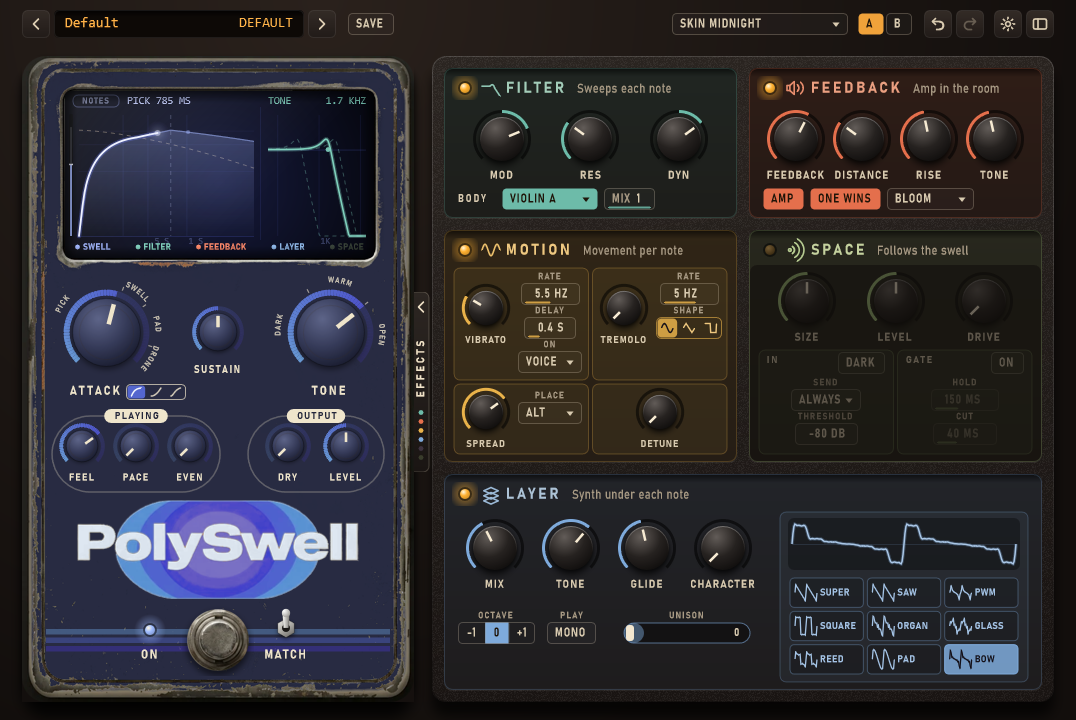
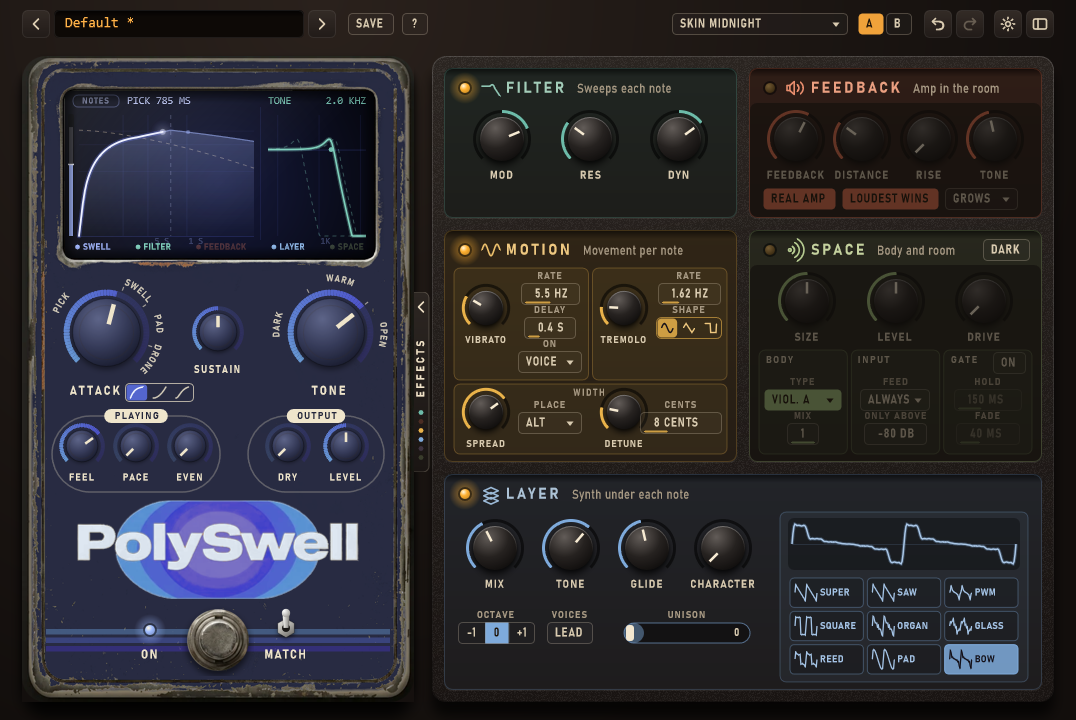
2.2.0: the owner's presets as stock presets; SPACE names; LED glow; RES picture; delete presets; unsaved-changes warning; prev/next through user presets; type values, Shift fine, module reset, A/B copy

diff --git a/Source/PluginEditor.cpp b/Source/PluginEditor.cpp
@@ -447,10 +447,13 @@ struct Knob : juce::Slider
         getProperties().set ("kind", kind);
         getProperties().set ("ac", (juce::int64) ac.getARGB());
         getProperties().set ("label", shownName);
-        setTooltip (String (tipFor (paramId)) + (kind < 3 ? "  Double-click: reset. Right-click: MIDI learn." : ""));
+        setTooltip (String (tipFor (paramId)) + (kind < 3 ? "  Double-click: reset. Shift-drag: fine. Alt-click: type a value. Right-click: MIDI learn."
+                                                          : "  Shift-drag: fine. Alt-click: type a value."));
         att = std::make_unique<juce::AudioProcessorValueTreeState::SliderAttachment> (p.apvts, paramId, *this);
         if (auto* prm = p.apvts.getParameter (paramId)) setDoubleClickReturnValue (true, prm->convertFrom0to1 (prm->getDefaultValue()));
         const String unit = p.apvts.getParameter (paramId)->getLabel();
+        unitLabel = unit;
+        baseSensitivity = kind == 3 ? 160 : 220;
         textFromValueFunction = [base = textFromValueFunction, unit] (double v) { return tidyValue (base ? base (v) : String (v), unit); };
         onValueChange = [this] { if (isMouseOverOrDragging()) show(); repaint(); };
         onDragStart = [this] { show(); host.focus (id, true); };
@@ -459,7 +462,35 @@ struct Knob : juce::Slider
     void mouseEnter (const juce::MouseEvent& e) override { juce::Slider::mouseEnter (e); show(); host.focus (id, true); repaint(); }
     void mouseExit (const juce::MouseEvent& e) override { juce::Slider::mouseExit (e); if (! e.mods.isAnyMouseButtonDown()) host.focus (id, false); repaint(); }
     void show() { host.readout (name, getTextFromValue (getValue())); }
-    void mouseDown (const juce::MouseEvent& e) override { if (e.mods.isPopupMenu()) { host.midiMenu (id, *this); return; } juce::Slider::mouseDown (e); }
+    void mouseDown (const juce::MouseEvent& e) override
+    {
+        if (e.mods.isPopupMenu()) { host.midiMenu (id, *this); return; }
+        if (e.mods.isAltDown()) { typeValue(); return; }                       // Alt-click: type an exact value
+        setMouseDragSensitivity (e.mods.isShiftDown() ? baseSensitivity * 6 : baseSensitivity);   // Shift: fine steps
+        juce::Slider::mouseDown (e);
+    }
+    void typeValue()
+    {
+        auto* w = new juce::AlertWindow ("Type a value", name, juce::MessageBoxIconType::NoIcon, this);
+        w->addTextEditor ("v", getTextFromValue (getValue()));
+        w->addButton ("OK", 1, juce::KeyPress (juce::KeyPress::returnKey));
+        w->addButton ("Cancel", 0, juce::KeyPress (juce::KeyPress::escapeKey));
+        juce::Component::SafePointer<Knob> self (this);
+        w->enterModalState (true, juce::ModalCallbackFunction::create ([self, w] (int r)
+        {
+            if (r == 1 && self != nullptr)
+                self->setValue (juce::jlimit (self->getMinimum(), self->getMaximum(), self->parseTyped (w->getTextEditorContents ("v"))), juce::sendNotificationSync);
+        }), true);
+    }
+    double parseTyped (String t) const   // "750", "2.5 s" (ATTACK in ms), "1.2k" (Hz), "-6"
+    {
+        t = t.trim().toLowerCase();
+        double v = t.getDoubleValue();
+        const String rest = t.trimCharactersAtStart ("0123456789.-+ ").trim();
+        if (unitLabel == "ms" && rest.startsWith ("s")) v *= 1000.0;
+        if (unitLabel == "Hz" && rest.startsWith ("k")) v *= 1000.0;
+        return v;
+    }
     void mouseDrag (const juce::MouseEvent& e) override { if (! e.mods.isPopupMenu()) juce::Slider::mouseDrag (e); }
     void mouseUp (const juce::MouseEvent& e) override { if (! e.mods.isPopupMenu()) juce::Slider::mouseUp (e); }
     bool hitTest (int x, int y) override   // round knobs: only the knob itself, so neighbours never steal the mouse
@@ -476,7 +507,8 @@ struct Knob : juce::Slider
     }
 
     Host& host;
-    String name, id;
+    String name, id, unitLabel;
+    int baseSensitivity = 220;
     std::unique_ptr<juce::AudioProcessorValueTreeState::SliderAttachment> att;
 };
 
@@ -1249,8 +1281,9 @@ struct SignalWindow : juce::Component, juce::Timer, juce::TooltipClient
             tag (g, m.second, X (m.first) + 3.f, bot - 7.f, cText.withAlpha (0x88 / 255.f));
         }
         const bool fon = P ("filterOn") > 0.5f;
-        const float fc = P ("freq"), q = 0.5f * std::pow (20.f, juce::jlimit (0.f, 1.f, P ("res")));
         const int slope = juce::roundToInt (P ("slope"));
+        // Q as the engine's resToQ: at 18 dB/oct RES 0 = Q 1 (the POG2's curve), up to Q 10 (the old 0.5 x 20^RES drew no peak there)
+        const float q0 = slope == 4 ? 1.f : 0.5f, fc = P ("freq"), q = q0 * std::pow (10.f / q0, juce::jlimit (0.f, 1.f, P ("res")));
         auto response = [&] (float cut)
         {
             juce::Path p;
@@ -2436,10 +2469,18 @@ struct PolySwellEditor::Board : juce::Component, Host, juce::Timer
         skinC->onPress = [this] { skinMenu (skinC); };
         for (int i = 0; i < 2; ++i)
         {
-            auto* c = chip (Chip::custom, "", i == 0 ? "A" : "B", col::amber, "A / B: two versions of the sound to compare. Click the other one to switch.", barOnly);
+            auto* c = chip (Chip::custom, "", i == 0 ? "A" : "B", col::amber, "A / B: two versions of the sound to compare. Click the other one to switch; click the lit one to copy it to the other.", barOnly);
             c->mode = Chip::toggle; c->setSize (26, 22);
             c->litFn = [this, i] { return abSlot == i; };
-            c->onPress = [this, i] { switchAb (i); };
+            c->onPress = [this, i, c]
+            {
+                if (abSlot != i) { switchAb (i); return; }
+                juce::PopupMenu m;
+                m.addItem (1, String ("Copy ") + (i == 0 ? "A to B" : "B to A") + " (replaces " + (i == 0 ? "B" : "A") + ")");
+                m.setLookAndFeel (&look);
+                m.showMenuAsync (juce::PopupMenu::Options().withTargetComponent (c), [this, i] (int r)
+                { if (r == 1) abState[(size_t) (1 - i)] = proc.apvts.copyState(); });
+            };
             abC[i] = c;
         }
     }
@@ -2556,9 +2597,9 @@ struct PolySwellEditor::Board : juce::Component, Host, juce::Timer
         {
             if (i == 4) continue;   // unused slot (was HOLD)
             const auto r = moduleRect (i);
-            Led* l = leds.add (new Led (proc, kMods[i].onId, false, String (kMods[i].title) + ": click to switch this module on or off."));
+            Led* l = leds.add (new Led (proc, kMods[i].onId, false, String (kMods[i].title) + ": click to switch this module on or off. Right-click its title: reset it."));
             l->onUserToggle = [this, id = kMods[i].onId] { wakeModule (id); };
-            l->setBounds (juce::roundToInt (r.getX() + 8), juce::roundToInt (r.getY() + 8), 26, 24);
+            l->setBounds (juce::roundToInt (r.getX() + 3), juce::roundToInt (r.getY() + 2), 36, 36);   // the glow needs ~32 px
             addAndMakeVisible (l); g.add (l);
             label (kMods[i].title, { r.getX() + 62, r.getY() + 10, 120, 20 }, 16.f, kMods[i].ac.interpolatedWith (col::cream, 0.4f), juce::Justification::centredLeft, true, 0.2f);
             const float tw = juce::GlyphArrangement::getStringWidth (uiFont (16.f, true, 0.2f), kMods[i].title);
@@ -2721,11 +2762,44 @@ struct PolySwellEditor::Board : juce::Component, Host, juce::Timer
     // ---------- 1. a control touched in a module that is off switches the module on (it would otherwise do nothing)
     void mouseDown (const juce::MouseEvent& e) override
     {
+        if (e.eventComponent == this && e.mods.isPopupMenu() && panelOpen)   // right-click a module's title: reset it
+        {
+            for (int i = 0; i < 6; ++i)
+                if (i != 4 && moduleRect (i).withHeight (36.f).contains (e.position)) { resetModuleMenu (i); return; }
+            return;
+        }
         if (e.eventComponent == this || e.eventComponent == nullptr || e.mods.isPopupMenu()) return;
         const auto c = e.eventComponent->getBounds().getCentre().toFloat();
         for (int i = 0; i < 6; ++i)
             if (i != 4 && kMods[i].onId != nullptr && moduleRect (i).contains (c) && getParam (kMods[i].onId) < 0.5f)
             { setParam (kMods[i].onId, 1.f); wakeModule (kMods[i].onId); }
+    }
+
+    static std::vector<const char*> moduleParams (int i)
+    {
+        switch (i)
+        {
+            case 0:  return { "mod", "res", "pickFilter", "slope" };
+            case 1:  return { "feedback", "fbDistance", "fbRise", "fbTone", "fbAmp", "fbOneWins", "fbMode", "fbHarmonic" };
+            case 2:  return { "vibDepth", "vibRate", "vibDelay", "vibTarget", "vibHuman", "tremolo", "tremRate", "tremShape",
+                              "spread", "spreadMode", "detuneMix", "detune" };
+            case 3:  return { "voiceMix", "voiceTone", "voiceGlide", "voiceCharacter", "voiceWave", "voiceOct", "voiceMono", "voiceUnison" };
+            default: return { "smearSize", "smearLevel", "smearDrive", "smearSend", "smearThresh", "smearDark", "smearGate", "smearHold",
+                              "smearCut", "bodyIr", "bodyMix", "bowedBody" };
+        }
+    }
+    void resetModuleMenu (int i)
+    {
+        juce::PopupMenu m;
+        m.addItem (1, String ("Reset ") + kMods[i].title + " to its defaults");
+        m.setLookAndFeel (&look);
+        m.showMenuAsync (juce::PopupMenu::Options(), [this, i] (int r)
+        {
+            if (r != 1) return;
+            for (auto* id : moduleParams (i))
+                if (auto* prm = proc.apvts.getParameter (id))
+                { prm->beginChangeGesture(); prm->setValueNotifyingHost (prm->getDefaultValue()); prm->endChangeGesture(); }
+        });
     }
 
     void listenToPanelControls()
@@ -2744,10 +2818,32 @@ struct PolySwellEditor::Board : juce::Component, Host, juce::Timer
     }
 
     // ---- menus
+    // before a preset replaces a sound with changes: ask (Discard / Keep editing)
+    void confirmDiscard (std::function<void()> go)
+    {
+        if (! proc.isModified()) { go(); return; }
+        juce::AlertWindow::showOkCancelBox (juce::MessageBoxIconType::QuestionIcon, "Discard your changes?",
+                                            "\"" + proc.currentPresetName + "\" has changes that are not saved. Click SAVE first to keep them.",
+                                            "Discard", "Keep editing", this,
+                                            juce::ModalCallbackFunction::create ([go] (int r) { if (r == 1) go(); }));
+    }
+
     void stepPreset (int d)
     {
+        confirmDiscard ([this, d] { stepPresetNow (d); });
+    }
+    void stepPresetNow (int d)   // the stock presets, then yours, round and round
+    {
         const int n = proc.getNumPrograms();
-        proc.setCurrentProgram ((proc.getCurrentProgram() + d + n) % n);
+        const auto user = PolySwellProcessor::userPresets();
+        const int total = n + user.size();
+        int cur = proc.getCurrentProgram();
+        if (proc.userPresetLoaded)
+            for (int k = 0; k < user.size(); ++k)
+                if (user[k].getFileNameWithoutExtension() == proc.currentPresetName) { cur = n + k; break; }
+        const int next = (cur + d + total) % total;
+        if (next < n) proc.setCurrentProgram (next);
+        else proc.loadUserPreset (user[next - n]);
     }
 
     void presetMenu()
@@ -2766,12 +2862,26 @@ struct PolySwellEditor::Board : juce::Component, Host, juce::Timer
             m.addItem (1000 + i, user[i].getFileNameWithoutExtension(), true, proc.userPresetLoaded && proc.currentPresetName == user[i].getFileNameWithoutExtension());
         m.addSeparator();
         m.addItem (1, "Save as...");
+        if (! user.isEmpty())
+        {
+            juce::PopupMenu del;
+            for (int i = 0; i < user.size(); ++i) del.addItem (2000 + i, user[i].getFileNameWithoutExtension());
+            m.addSubMenu ("Delete one of yours", del);
+        }
         m.setLookAndFeel (&look);
         m.showMenuAsync (juce::PopupMenu::Options().withTargetComponent (&lcd).withMaximumNumColumns (2), [this, user] (int r)
         {
             if (r == 1) savePreset();
-            else if (r >= 1000) { proc.loadUserPreset (user[r - 1000]); }
-            else if (r >= 100) { proc.setCurrentProgram (r - 100); }
+            else if (r >= 2000)   // delete one of yours: to the Recycle Bin, after a question
+            {
+                const auto f = user[r - 2000];
+                juce::AlertWindow::showOkCancelBox (juce::MessageBoxIconType::WarningIcon, "Delete preset?",
+                                                    "\"" + f.getFileNameWithoutExtension() + "\" goes to the Recycle Bin (you can restore it from there).",
+                                                    "Delete", "Cancel", this,
+                                                    juce::ModalCallbackFunction::create ([f] (int res) { if (res == 1) f.moveToTrash(); }));
+            }
+            else if (r >= 1000) { const auto f = user[r - 1000]; confirmDiscard ([this, f] { proc.loadUserPreset (f); }); }
+            else if (r >= 100) { const int i = r - 100; confirmDiscard ([this, i] { proc.setCurrentProgram (i); }); }
         });
     }
 

diff --git a/Source/PluginProcessor.cpp b/Source/PluginProcessor.cpp
@@ -30,28 +30,32 @@ namespace
                                       { "feedbackOn", 0 }, { "feedback", 0.386f }, { "fbRise", 0.2f },
                                       { "motionOn", 0 }, { "tremolo", 0.177f }, { "tremRate", 1.62f }, { "detuneMix", 0.209f },
                                       { "voiceOn", 0 } } },
-            // the pedal reacting to the playing
-            { "Default dynamic", "Default", { { "attack", 450 }, { "touch", 0.4f }, { "follow", 0.5f }, { "even", 0.3f }, { "sustain", 0.35f },
-                                               { "freq", 5000 }, { "pickFilter", 0.3f },
-                                               { "feedback", 0.2f }, { "fbDistance", 0.3f }, { "fbRise", 1.5f } } },
-            // rolled-off highs, a little dynamic, a saw voice gliding under it, vibrato that sets in late
-            { "Smooth lead", "Lead", { { "attack", 350 }, { "sustain", 0.55f }, { "touch", 0.3f }, { "follow", 0.35f }, { "even", 0.25f },
-                                       { "freq", 2800 }, { "res", 0.1f }, { "pickFilter", 0.2f },
-                                       { "voiceMix", 0.25f }, { "voiceWave", 1 }, { "voiceTone", 2500 }, { "voiceGlide", 0.06f }, { "voiceMono", 1 }, { "voiceCharacter", 0.3f },
-                                       { "vibDepth", 8 }, { "vibRate", 5.2f }, { "vibDelay", 0.4f }, { "vibTarget", 1 }, { "vibHuman", 1 },
-                                       { "smearOn", 1 }, { "smearSize", 0.45f }, { "smearLevel", 0.25f } } },
-            // bowed attack, a violin body, singing vibrato
-            { "Violin", "Lead", { { "attack", 400 }, { "even", 0.5f }, { "sustain", 0.45f }, { "smoothRepick", 1 },
-                                  { "slope", 0 }, { "freq", 6000 }, { "mod", 0.15f }, { "bodyIr", 1 }, { "bodyMix", 0.8f },
-                                  { "smearOn", 1 }, { "smearSize", 0.35f }, { "smearLevel", 0.15f },   // BODY lives in SPACE: a small room
-                                  { "voiceMix", 0.35f }, { "voiceWave", 1 }, { "voiceGlide", 0.05f }, { "voiceMono", 1 },
-                                  { "vibDepth", 14 }, { "vibDelay", 0.35f }, { "vibTarget", 1 }, { "vibHuman", 1 } } },
-            // the VG-8 bowed pad under the guitar, a driven gated reverb, a little chorus-like detune (the mk.gee kind of sound)
-            { "Gated VG", "Lead", { { "vol", -4.5f }, { "attack", 400 }, { "sustain", 0.4f }, { "even", 0.3f }, { "dry", 0.15f }, { "freq", 4000 },
-                                    { "voiceMix", 0.45f }, { "voiceWave", 7 }, { "voiceTone", 4000 }, { "voiceCharacter", 0.5f }, { "voiceUnison", 0.2f },
-                                    { "detuneMix", 0.3f }, { "vibDepth", 5 }, { "vibRate", 4.5f }, { "vibTarget", 2 },
-                                    { "smearOn", 1 }, { "smearSize", 0.55f }, { "smearLevel", 0.5f }, { "smearDrive", 0.5f },
-                                    { "smearGate", 1 }, { "smearHold", 150 }, { "smearCut", 40 } } },
+            // the owner's own (tuned by ear, 2026-11-24)
+            { "Default dynamic", "Default", { { "attack", 1541 }, { "freq", 5000 }, { "sustain", 0.35f }, { "touch", 0.4f }, { "follow", 0.5f },
+                                      { "feedback", 0.2f }, { "fbRise", 0.4f }, { "pickFilter", 0.3f }, { "voiceOn", 0 }, { "even", 0.3f } } },
+            // the owner's own (tuned by ear, 2026-11-24)
+            { "Smooth lead", "Lead", { { "attack", 350 }, { "freq", 2800 }, { "res", 0.1f }, { "sustain", 0.55f }, { "touch", 0.3f },
+                                      { "follow", 0.35f }, { "feedback", 0.132f }, { "fbRise", 0.2f }, { "fbTone", 429 }, { "tremolo", 0.091f },
+                                      { "tremRate", 4.64f }, { "fbMode", 1 }, { "pickFilter", 0.2f }, { "detuneMix", 0.055f }, { "voiceMix", 0.2f },
+                                      { "voiceGlide", 0.06f }, { "voiceMono", 1 }, { "vibHuman", 1 }, { "voiceTone", 1546 },
+                                      { "voiceUnison", 0.266f }, { "even", 0.25f }, { "smearOn", 1 }, { "smearLevel", 0.25f },
+                                      { "smearSize", 0.45f }, { "voiceCharacter", 0.23f }, { "vibDepth", 8 }, { "vibRate", 5.2f },
+                                      { "vibTarget", 1 } } },
+            // the owner's own VIOLIN (2026-11-24): BOWED curve, violin body S2, the voice fully in, a small room
+            { "Violin", "Lead", { { "attack", 450 }, { "freq", 9000 }, { "mod", 0.38f }, { "res", 0.703f }, { "sustain", 0.25f }, { "slope", 0 },
+                                      { "detune", 0 }, { "touch", 0.27f }, { "follow", 0.748f }, { "feedback", 0.368f }, { "fbRise", 0.2f },
+                                      { "spreadMode", 4 }, { "fbMode", 1 }, { "pickFilter", 0.52f }, { "detuneMix", 0.055f }, { "voiceMix", 1 },
+                                      { "voiceGlide", 0.042f }, { "voiceMono", 1 }, { "vibHuman", 1 }, { "voiceTone", 12000 }, { "swellShape", 1 },
+                                      { "smoothRepick", 1 }, { "bodyIr", 7 }, { "smearOn", 1 }, { "smearLevel", 0.281f }, { "smearSize", 0.078f },
+                                      { "vibDepth", 10.8f }, { "vibRate", 4.36f }, { "vibDelay", 0.35f } } },
+            // the owner's own (2026-11-24): the mk.gee kind of sound - a supersaw voice under a BOWED swell, violin body, tremolo
+            { "Mk.gee", "Lead", { { "attack", 546.2f }, { "freq", 1518 }, { "mod", 0.18f }, { "sustain", 0.676f }, { "slope", 1 },
+                                      { "detune", 5.9f }, { "touch", 0.32f }, { "follow", 0.876f }, { "feedback", 0.208f }, { "fbRise", 0.25f },
+                                      { "tremolo", 0.228f }, { "tremRate", 9.36f }, { "spread", 0.352f }, { "spreadMode", 4 }, { "pickFilter", 1 },
+                                      { "detuneMix", 0.055f }, { "voiceMix", 0.412f }, { "voiceWave", 0 }, { "voiceGlide", 0.042f },
+                                      { "voiceMono", 1 }, { "vibHuman", 1 }, { "voiceTone", 1403 }, { "voiceUnison", 0.108f }, { "swellShape", 1 },
+                                      { "smoothRepick", 1 }, { "bodyIr", 7 }, { "smearOn", 1 }, { "smearLevel", 0.281f }, { "smearSize", 0.078f },
+                                      { "vibDepth", 6.4f }, { "vibRate", 3 }, { "vibTarget", 1 } } },
             // slow, wide, a pad voice under it, the reverb blooming with the swell
             { "Ambient pad", "Pad", { { "vol", 4.5f }, { "attack", 2500 }, { "sustain", 0.8f }, { "even", 0.4f }, { "freq", 2200 }, { "mod", 0.25f },
                                       { "voiceMix", 0.4f }, { "voiceWave", 7 }, { "voiceTone", 3000 }, { "voiceUnison", 0.4f }, { "voiceCharacter", 0.3f },
@@ -308,20 +312,20 @@ juce::AudioProcessorValueTreeState::ParameterLayout PolySwellProcessor::createLa
     l.add (std::make_unique<APF> (PID { "driveTone", 1 }, "Drive Tone", juce::NormalisableRange<float> (0.f, 1.f, 0.01f), 0.5f));
     l.add (std::make_unique<APF> (PID { "driveWow", 1 }, "Drive Wow", juce::NormalisableRange<float> (0.f, 1.f, 0.01f), 0.2f));
     // SMEAR: gated reverb + drive (after the Rainger FX Reverb-X)
-    l.add (std::make_unique<juce::AudioParameterBool> (PID { "smearOn", 1 }, "Smear On", false));
-    l.add (std::make_unique<APF> (PID { "smearLevel", 1 }, "Smear Level", juce::NormalisableRange<float> (0.f, 1.f, 0.001f), 0.5f));
-    l.add (std::make_unique<APF> (PID { "smearSize", 1 }, "Smear Size", juce::NormalisableRange<float> (0.f, 1.f, 0.001f), 0.5f));
-    l.add (std::make_unique<APF> (PID { "smearDrive", 1 }, "Smear Drive", juce::NormalisableRange<float> (0.f, 1.f, 0.001f), 0.f));
-    l.add (std::make_unique<juce::AudioParameterBool> (PID { "smearGate", 1 }, "Smear Gate", false));
-    l.add (std::make_unique<juce::AudioParameterBool> (PID { "smearDark", 1 }, "Smear Dark", false));
-    l.add (std::make_unique<APF> (PID { "smearHold", 1 }, "Smear Gate Hold",
+    l.add (std::make_unique<juce::AudioParameterBool> (PID { "smearOn", 1 }, "Space On", false));
+    l.add (std::make_unique<APF> (PID { "smearLevel", 1 }, "Space Level", juce::NormalisableRange<float> (0.f, 1.f, 0.001f), 0.5f));
+    l.add (std::make_unique<APF> (PID { "smearSize", 1 }, "Space Size", juce::NormalisableRange<float> (0.f, 1.f, 0.001f), 0.5f));
+    l.add (std::make_unique<APF> (PID { "smearDrive", 1 }, "Space Drive", juce::NormalisableRange<float> (0.f, 1.f, 0.001f), 0.f));
+    l.add (std::make_unique<juce::AudioParameterBool> (PID { "smearGate", 1 }, "Space Gate", false));
+    l.add (std::make_unique<juce::AudioParameterBool> (PID { "smearDark", 1 }, "Space Dark", false));
+    l.add (std::make_unique<APF> (PID { "smearHold", 1 }, "Space Gate Hold",
            juce::NormalisableRange<float> (0.f, 1000.f, 1.f, 0.5f), 150.f, juce::AudioParameterFloatAttributes().withLabel ("ms")));
-    l.add (std::make_unique<APF> (PID { "smearCut", 1 }, "Smear Gate Cut",
+    l.add (std::make_unique<APF> (PID { "smearCut", 1 }, "Space Gate Cut",
            juce::NormalisableRange<float> (2.f, 500.f, 1.f, 0.4f), 40.f, juce::AudioParameterFloatAttributes().withLabel ("ms")));
-    l.add (std::make_unique<juce::AudioParameterChoice> (PID { "smearSend", 1 }, "Smear Send",
+    l.add (std::make_unique<juce::AudioParameterChoice> (PID { "smearSend", 1 }, "Space Send",
            juce::StringArray { "Always", "Follows swell", "Pedal" }, 0));
-    l.add (std::make_unique<APF> (PID { "smearPress", 1 }, "Smear Press", juce::NormalisableRange<float> (0.f, 1.f, 0.001f), 1.f));
-    l.add (std::make_unique<APF> (PID { "smearThresh", 1 }, "Smear Thresh",
+    l.add (std::make_unique<APF> (PID { "smearPress", 1 }, "Space Press", juce::NormalisableRange<float> (0.f, 1.f, 0.001f), 1.f));
+    l.add (std::make_unique<APF> (PID { "smearThresh", 1 }, "Space Thresh",
            juce::NormalisableRange<float> (-80.f, 0.f, 0.1f), -80.f, juce::AudioParameterFloatAttributes().withLabel ("dB")));
     l.add (std::make_unique<APF> (PID { "voiceString", 1 }, "Voice String", juce::NormalisableRange<float> (0.f, 1.f, 0.01f), 0.f));
     l.add (std::make_unique<APF> (PID { "voiceCharacter", 1 }, "Voice Character", juce::NormalisableRange<float> (0.f, 1.f, 0.01f), 0.f));
@@ -937,10 +941,10 @@ void PolySwellProcessor::setParam (const char* id, float v)
     }
 }
 
-void PolySwellProcessor::setCurrentProgram (int i)
+// the clean base every stock preset starts from: every parameter at its default (bypass, limiter and low latency belong to
+// the setup and stay), then defaultSetup(). `ui_snapshot --params (base)` prints it, to turn a saved preset into a stock one.
+void PolySwellProcessor::applyBase()
 {
-    i = juce::jlimit (0, getNumPrograms() - 1, i);
-    // Default: every parameter at its default (bypass, limiter and low latency belong to the setup and stay)
     for (auto* prm : getParameters())
         if (auto* rp = dynamic_cast<juce::RangedAudioParameter*> (prm))
         {
@@ -950,6 +954,12 @@ void PolySwellProcessor::setCurrentProgram (int i)
         }
     gen2Defaults();
     for (auto& kv : defaultSetup()) setParam (kv.first, kv.second);
+}
+
+void PolySwellProcessor::setCurrentProgram (int i)
+{
+    i = juce::jlimit (0, getNumPrograms() - 1, i);
+    applyBase();
     const auto& np = newPresets()[(size_t) i];
     for (auto& kv : np.set) setParam (kv.first, kv.second);
     currentProgram = i;

diff --git a/tools/ui_snapshot.cpp b/tools/ui_snapshot.cpp
@@ -258,7 +258,8 @@ int main (int argc, char** argv)
     if (argc > 2 && juce::String (argv[1]) == "--params")   // every parameter of a factory preset: id=value (to diff user presets)
     {
         auto pp = std::make_unique<PolySwellProcessor>();
-        for (int i = 0; i < pp->getNumPrograms(); ++i) if (pp->getProgramName (i) == juce::String (argv[2])) pp->setCurrentProgram (i);
+        if (juce::String (argv[2]) == "(base)") pp->applyBase();
+        else for (int i = 0; i < pp->getNumPrograms(); ++i) if (pp->getProgramName (i) == juce::String (argv[2])) pp->setCurrentProgram (i);
         for (auto* prm : pp->getParameters())
             if (auto* r = dynamic_cast<juce::RangedAudioParameter*> (prm))
                 std::printf ("%s=%.6g\n", r->getParameterID().toRawUTF8(), r->convertFrom0to1 (r->getValue()));
@@ -344,7 +345,7 @@ int main (int argc, char** argv)
         t = 0;
         for (int i = 0; i < 14; ++i) { feedChord (proc, 0.05, t); pump (40); }   // audio running while the window animates
         shoot (e, out.getChildFile ("14_live.png"));
-        const char* ids[] = { "attack", "sustain", "touch", "follow", "feedback", "fbDistance", "vibDepth", "spread", "voiceMix", "smearSize" };
+        const char* ids[] = { "attack", "sustain", "touch", "follow", "feedback", "fbDistance", "vibDepth", "spread", "voiceMix", "smearSize", "res", "freq" };
         int n = 6;
         for (auto* id : ids)
         {

diff --git a/Source/PluginProcessor.h b/Source/PluginProcessor.h
@@ -85,6 +85,7 @@ public:
     bool loadUserPreset (const juce::File& file);
     juce::String currentPresetName { "Default" };
     bool userPresetLoaded = false;
+    void applyBase();                      // every parameter at its default + the stock base (what each stock preset starts from)
     void rememberLoaded();                 // the values as loaded / saved: anything else = changed (the LCD shows *)
     bool isModified() const;
     std::vector<float> loadedValues;

diff --git a/CLAUDE.md b/CLAUDE.md
@@ -284,3 +284,10 @@ Slow gear, Reverse tape (MATCH off), Envelope filter, Warble. LEVEL per preset s
   room", boxes BODY (TYPE, MIX) | INPUT (FEED, ONLY ABOVE) | GATE (ON, HOLD, FADE), DARK in the header. BODY follows
   SPACE's switch now (processor: `smearOn`, was `filterOn`); the Violin preset gets SPACE on with a small room (0.35 / 0.15).
 - MOTION: VIBRATO | TREMOLO on top, one WIDTH box below: SPREAD + PLACE, DETUNE + CENTS (`detune`, also in the gear menu).
+- 2.2.0 (2026-11-24): stock presets Default dynamic, Smooth lead, Violin (owner's VIOLIN) and Mk.gee (owner's; replaces
+  Gated VG) baked from the owner's files (`ui_snapshot --params (base)` = `applyBase()`; diffed; gen-1 controls held neutral
+  and midiOut left out). Parameter display names Smear -> Space. Module LEDs 36 px (glow). RES picture uses the engine's Q
+  (`resToQ`: at 18 dB/oct the old 0.5 x 20^RES drew no peak). Presets: delete your own (menu > Delete one of yours, to the
+  Recycle Bin, asked first); "Discard your changes?" before another preset replaces a changed sound; prev/next run through
+  the stock presets then the user's. Knobs: Alt-click types a value ("2.5 s", "1.2k"), Shift-drag fine (x6). Right-click a
+  module's title: reset it (`moduleParams`). A/B: click the lit slot to copy it to the other.
